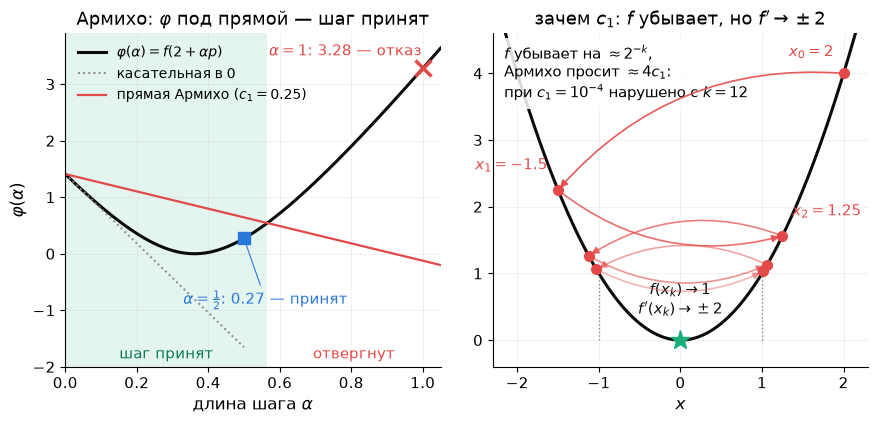
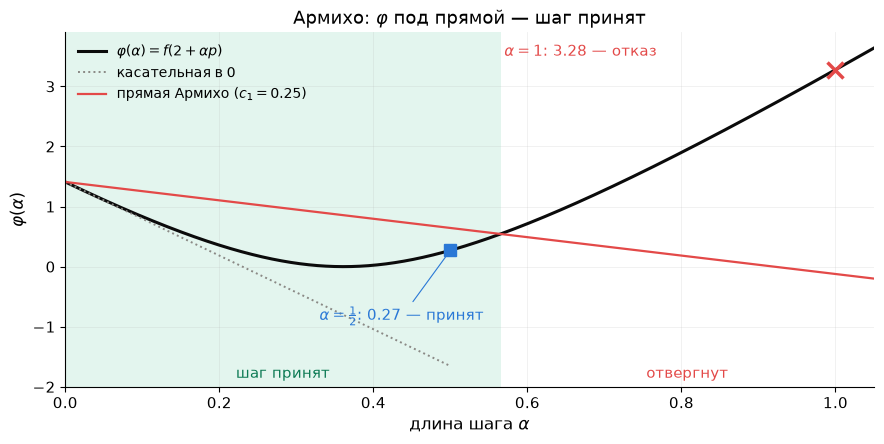
Lecture 6: picture for the Rosenbrock cut in 2.1; Armijo figure to one panel
Instructor's review: the example "Newton's overshoot on Rosenbrock" in
2.1 had no picture, and the right panel of the 2.2 figure (the x^2
counterexample) should go.

- New figure 02_alpha_cut.png: left, Rosenbrock level sets with x_0,
  x_1, the Newton step p_1, the full step landing at f = 1412 and the
  point alpha = 0.11 with f = 4.06, the minimum; right, the cut
  phi(alpha) = f(x_1 + alpha p_1) on a log scale. Numbers asserted
  (4.732, 4.061 at 0.110, 1411.8).
- 02_armijo_c1.png is now a single panel: phi(alpha) of the arctan
  example with the tangent and the Armijo line; the counterexample
  stays only in exercise 6.1, and the "why c1" paragraph no longer
  refers to a panel.

Notebook rebuilt and executed.

diff --git a/lectures/lecture06/scripts/make_figures.py b/lectures/lecture06/scripts/make_figures.py
@@ -11,7 +11,8 @@
   00_hooks            три крючка: Ньютон на арктангенсе, бассейны Химмельблау, цепь N=400
   00_atan_newton      почему чистый Ньютон улетает на арктангенсе: парабола-модель и касательная к f'
   01_review           повторение: пути четырёх методов на Розенброке и биография цепи
-  02_armijo_c1        зачем c1: прямая Армихо на phi(alpha) из крючка; контрпример x^2 — f убывает, f' не -> 0
+  02_alpha_cut        выброс Ньютона на Розенброке: шаг из x_1 на линиях уровня и разрез phi(alpha) вдоль него
+  02_armijo_c1        правило Армихо: phi(alpha) из введения, касательная и прямая Армихо (одна панель)
   02_armijo_wolfe     phi(alpha) на Розенброке в x_1: допустимые по Армихо и Вольфе шаги
   03_bfgs_wolfe       s^T y у BFGS с Армихо и с Вольфе; цепь: норма градиента и пол округления
                       (с 15.10 в конспекте не показывается — только для упражнения 6.10 и демо)
@@ -800,6 +801,44 @@ def fig_armijo_wolfe():
     return arm, wol, swol
 
 
+# ================================================================ 02 разрез phi(alpha): выброс Ньютона на Розенброке
+def fig_phi_cut():
+    x1, p1 = line_at_x1()
+    al = np.linspace(0, 1, 2001)
+    phi = np.array([rosen(x1 + a * p1) for a in al])
+    a_min = al[np.argmin(phi)]
+    assert abs(phi[0] - 4.732) < 1e-3 and abs(phi[-1] - 1411.8) < 0.2, (phi[0], phi[-1])
+    assert abs(a_min - 0.110) < 0.002 and abs(phi.min() - 4.061) < 2e-3, (a_min, phi.min())
+    xe, xa = x1 + p1, x1 + a_min * p1
+    fig, axes = plt.subplots(1, 2, figsize=(9, 4.4), gridspec_kw=dict(width_ratios=[1, 1.1]))
+    ax = axes[0]                                                   # линии уровня и шаг
+    rosen_contour(ax, xlim=(-2, 1.7), ylim=(-3.6, 2.2))
+    arrow(ax, x1, xe, RED, lw=2, ms=14)
+    ax.plot(*X0_ROSEN, "o", color=INK, ms=7, zorder=7)
+    ax.annotate("$x_0$", X0_ROSEN, (X0_ROSEN[0] - 0.45, X0_ROSEN[1] - 0.45), fontsize=11)
+    ax.plot(*x1, "o", color=BLUE, ms=8, zorder=8)
+    ax.annotate("$x_1$", x1, (x1[0] - 0.45, x1[1] + 0.2), color=BLUE, fontsize=11)
+    ax.plot(*xe, "x", color=RED, ms=12, mew=2.5, zorder=8)
+    ax.annotate(r"$\alpha=1$: $f=1412$", xe, (xe[0] - 1.9, xe[1] + 0.05), color=RED, fontsize=11)
+    ax.plot(*xa, "s", color=AQUA, ms=8, zorder=9)
+    ax.annotate(r"$\alpha=0.11$: $f=4.06$", xa, (xa[0] + 0.12, xa[1] + 0.12), color="#0c7a54", fontsize=11)
+    ax.plot(1, 1, "*", color=RED, ms=14, zorder=7)
+    ax.annotate("$x^*$", (1, 1), (1.15, 0.75), color=RED, fontsize=11)
+    ax.set(xlabel="$x_1$", ylabel="$x_2$", title="Розенброк: шаг Ньютона $p_1$ из $x_1$")
+    ax = axes[1]                                                   # разрез вдоль шага
+    ax.semilogy(al, phi, color=INK, lw=2.2)
+    ax.plot(0, phi[0], "o", color=BLUE, ms=8, zorder=7)
+    ax.annotate(r"$\varphi(0)=4.73$", (0, phi[0]), (0.05, 2.3), color=BLUE, fontsize=11)
+    ax.plot(a_min, phi.min(), "s", color=AQUA, ms=8, zorder=8)
+    ax.annotate(r"$\alpha=0.11$: $4.06$", (a_min, phi.min()), (0.16, 2.9), color="#0c7a54", fontsize=11)
+    ax.plot(1, phi[-1], "x", color=RED, ms=12, mew=2.5, zorder=8)
+    ax.annotate(r"$\alpha=1$: $1412$", (1, phi[-1]), (0.62, 1100), color=RED, fontsize=11)
+    ax.set(xlim=(-0.02, 1.05), ylim=(1.8, 3000), xlabel=r"длина шага $\alpha$", ylabel=r"$\varphi(\alpha)=f(x_1+\alpha p_1)$",
+           title="разрез вдоль шага: длина врёт")
+    save("02_alpha_cut.png")
+    return a_min
+
+
 # ================================================================ 02 Армихо: зачем c1
 def fig_armijo_c1():
     x0 = 2.0; p = -(1 + x0 ** 2) * np.arctan(x0)                  # шаг Ньютона из крючка (арктангенс)
@@ -819,8 +858,7 @@ def fig_armijo_c1():
     k_fail = int(ks[np.argmax(dec < req)])
     assert k_fail == 12 and np.all(dec > 0) and abs(ak[-1] - 1) < 1e-4, (k_fail, ak[-1])
 
-    fig, axes = plt.subplots(1, 2, figsize=(9, 4.4))
-    ax = axes[0]                                                   # прямая Армихо на phi из крючка
+    fig, ax = plt.subplots(figsize=(9, 4.6))                      # прямая Армихо на phi из введения
     ax.axvspan(0, acc[0.25], color=AQUA, alpha=0.12, lw=0)
     ax.plot(al, phi(al), color=INK, lw=2.2, label=r"$\varphi(\alpha)=f(2+\alpha p)$")
     ax.plot(al[al <= 0.5], phi(0) + al[al <= 0.5] * d0, ":", color=GRAY, lw=1.4, label="касательная в 0")
@@ -836,25 +874,6 @@ def fig_armijo_c1():
            title="Армихо: $\\varphi$ под прямой — шаг принят")
     ax.legend(loc="upper left", fontsize=10)
 
-    ax = axes[1]                                                   # уменьшение есть, сходимости нет
-    t = np.linspace(-2.3, 2.3, 400)
-    ax.plot(t, t ** 2, color=INK, lw=2.2)
-    n_show = 7
-    xs, ys = xk[:n_show], xk[:n_show] ** 2
-    for i in range(n_show - 1):
-        arrow(ax, (xs[i], ys[i]), (xs[i + 1], ys[i + 1]), RED, lw=1.2, ms=11, alpha=0.9 - 0.1 * i,
-              connectionstyle="arc3,rad=0.25")
-    ax.plot(xs, ys, "o", color=RED, ms=7, zorder=7)
-    for i, (dx, dy, ha) in enumerate(((-0.12, 0.25, "right"), (-0.12, 0.3, "right"), (0.12, 0.3, "left"))):
-        ax.annotate(f"$x_{i}={xs[i]:g}$", (xs[i], ys[i]), (xs[i] + dx, ys[i] + dy), color=RED, fontsize=11, ha=ha)
-    for v in (-1, 1):
-        ax.plot([v, v], [0, 1], ":", color=GRAY, lw=1)
-    ax.plot(0, 0, "*", color=AQUA, ms=14, zorder=7)
-    ax.text(0, 0.6, "$f(x_k)\\to1$\n$f'(x_k)\\to\\pm2$", ha="center", va="center", fontsize=11, color=INK)
-    ax.text(0.03, 0.97, f"$f$ убывает на $\\approx2^{{-k}}$,\nАрмихо просит $\\approx4c_1$:\n"
-            f"при $c_1=10^{{-4}}$ нарушено с $k={k_fail}$", transform=ax.transAxes, va="top", fontsize=10.5,
-            bbox=dict(facecolor="white", alpha=0.85, edgecolor="none"))
-    ax.set(xlim=(-2.3, 2.3), ylim=(-0.4, 4.6), xlabel="$x$", title="зачем $c_1$: $f$ убывает, но $f'\\to\\pm2$")
     save("02_armijo_c1.png")
     return k_fail
 
@@ -1207,6 +1226,7 @@ if __name__ == "__main__":
     k_gd400, k_cg400 = fig_hooks(R, B)
     fig_atan_newton(R)
     fig_review(R)
+    a_cut = fig_phi_cut()
     arm, wol, swol = fig_armijo_wolfe()
     k_fail = fig_armijo_c1()
     stat, floor = fig_bfgs_wolfe()

diff --git a/lectures/lecture06/lecture06.md b/lectures/lecture06/lecture06.md
@@ -141,6 +141,10 @@ $\varphi'(0)$ — обещание модели: на единицу длины 
 
 **Пример — выброс Ньютона на Розенброке** (картинка повторения). В точке $x_1=(-1.175,\,1.381)$ шаг Ньютона длиной $4.95$ ведёт в $f=1412$ — в $300$ раз больше, чем $\varphi(0)=4.73$; при $\alpha\approx0.11$ функция падает до $4.06$. Направление угадано, длина — нет.
 
+<img src="img/02_alpha_cut.png" width="900" alt="слева: линии уровня Розенброка, старт x₀, точка x₁ и шаг Ньютона p₁ — полный шаг (α = 1) уводит в (0.76, −3.18), где f = 1412, а точка α = 0.11 на том же луче даёт f = 4.06; справа: разрез φ(α) = f(x₁ + α p₁) в логарифмической шкале — провал до 4.06 при α ≈ 0.11 и подъём до 1412 при α = 1">
+
+*Слева: тот же шаг на линиях уровня — направление $p_1$ ведёт вниз по долине, но полная длина выносит далеко за неё. Справа: разрез $\varphi(\alpha)$ вдоль шага — минимум при $\alpha\approx0.11$, а при $\alpha=1$ значение в $300$ раз больше исходного.*
+
 ### 2.2. Правило Армихо: «убыль достаточно»
 
 $$
@@ -149,11 +153,11 @@ $$
 
 Функция должна убыть хотя бы на долю $c_1$ того, что обещала касательная. Справа — прямая из $\varphi(0)$ с наклоном в $c_1$ раз положе касательной; шаг принимаем, если $\varphi$ лежит под ней. Это защита от слишком длинных шагов, на которых $f$ растёт.
 
-<img src="img/02_armijo_c1.png" width="900" alt="слева: φ(α) вдоль шага Ньютона из x₀ = 2 на арктангенсе, касательная в нуле и прямая Армихо при c₁ = 0.25; α = 1 (φ = 3.28) выше прямой — отказ, α = ½ (0.27) под ней — принят; справа: парабола x², точки x_k = (−1)^k(1+2^−k) прыгают через нуль, f убывает к 1, f' → ±2, при c₁ = 10⁻⁴ правило Армихо нарушено с k = 12">
+<img src="img/02_armijo_c1.png" width="900" alt="φ(α) вдоль шага Ньютона из x₀ = 2 на арктангенсе, касательная в нуле и прямая Армихо при c₁ = 0.25; α = 1 (φ = 3.28) выше прямой — отказ, α = ½ (0.27) под ней — принят">
 
-*Слева: $\varphi(\alpha)$ вдоль шага Ньютона из $x_0=2$ на арктангенсе из введения; прямая Армихо нарисована при $c_1=0.25$, чтобы была видна. $\alpha=1$ выше прямой — отказ, $\alpha=\tfrac12$ под ней — принят. Справа: зачем нужна добавка $c_1$.*
+*$\varphi(\alpha)$ вдоль шага Ньютона из $x_0=2$ на арктангенсе из введения; прямая Армихо нарисована при $c_1=0.25$, чтобы была видна (при обычном $10^{-4}$ она почти горизонтальна). $\alpha=1$ выше прямой — отказ, $\alpha=\tfrac12$ под ней — принят.*
 
-**Зачем $c_1$.** Правило «просто стало меньше» не говорит, *на сколько*, а уменьшать можно сколь угодно мало: $\tfrac12+\tfrac14+\tfrac18+\dots=1$ — бесконечно много шагов, и метод остановился где угодно. На правой панели $f=x^2$: точки прыгают через нуль, $f$ падает на $2^{-k}$, а градиент как был $\pm2$, так и остался (как построены шаги — упражнение 6.1). Армихо привязывает уменьшение к градиенту: пока градиент не мал, уменьшение не может быть мелким, а функция, ограниченная снизу, не может бесконечно падать на немелкие куски — значит, градиент обязан стремиться к нулю (теорема §2.5). При $c_1=10^{-4}$ прыжки отвергаются с $k=12$.
+**Зачем $c_1$.** Правило «просто стало меньше» не говорит, *на сколько*, а уменьшать можно сколь угодно мало: $\tfrac12+\tfrac14+\tfrac18+\dots=1$ — бесконечно много шагов, каждый уменьшает $f$, а метод остановился где угодно, не дойдя до минимума (пример такой последовательности — упражнение 6.1). Армихо привязывает уменьшение к градиенту: пока градиент не мал, уменьшение не может быть мелким, а функция, ограниченная снизу, не может бесконечно падать на немелкие куски — значит, градиент обязан стремиться к нулю (теорема §2.5).
 
 **Чего Армихо не запрещает:** сколь угодно короткий шаг. Микроскопическое $\alpha$ формально проходит, и метод топчется на месте. От этого спасают backtracking (§2.3) и условие Вольфе (§2.4).
 
